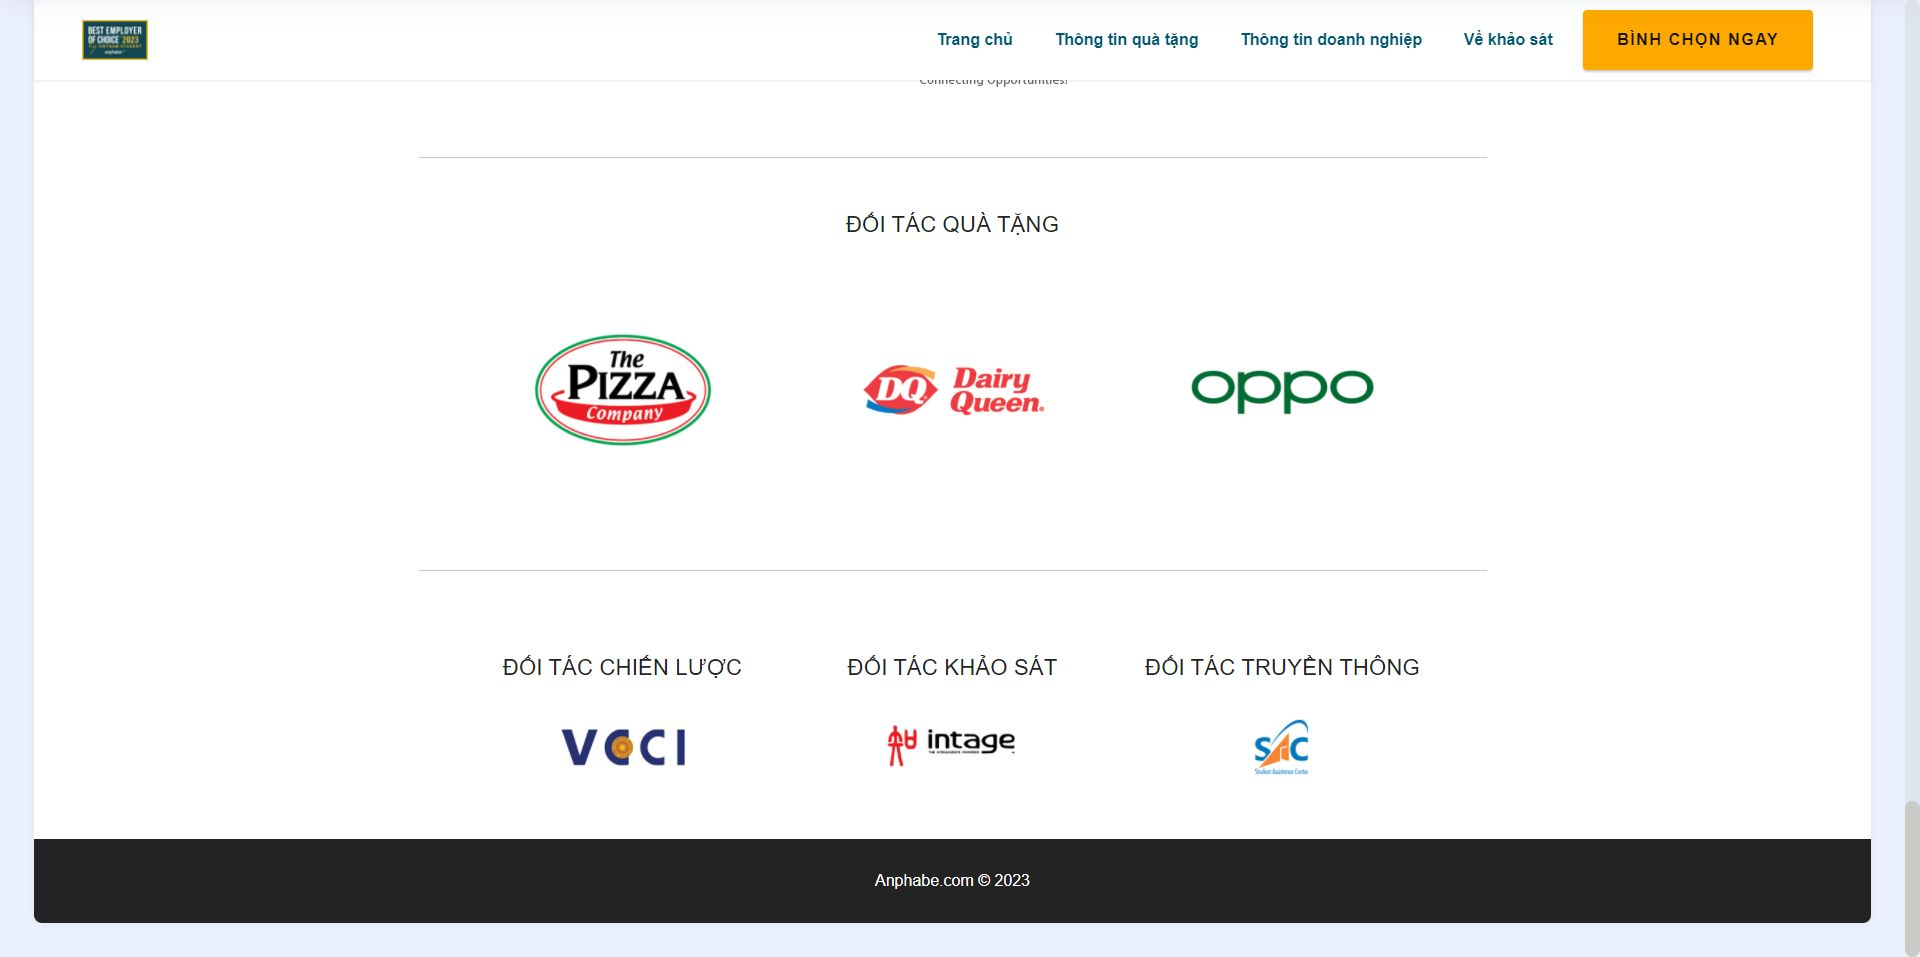
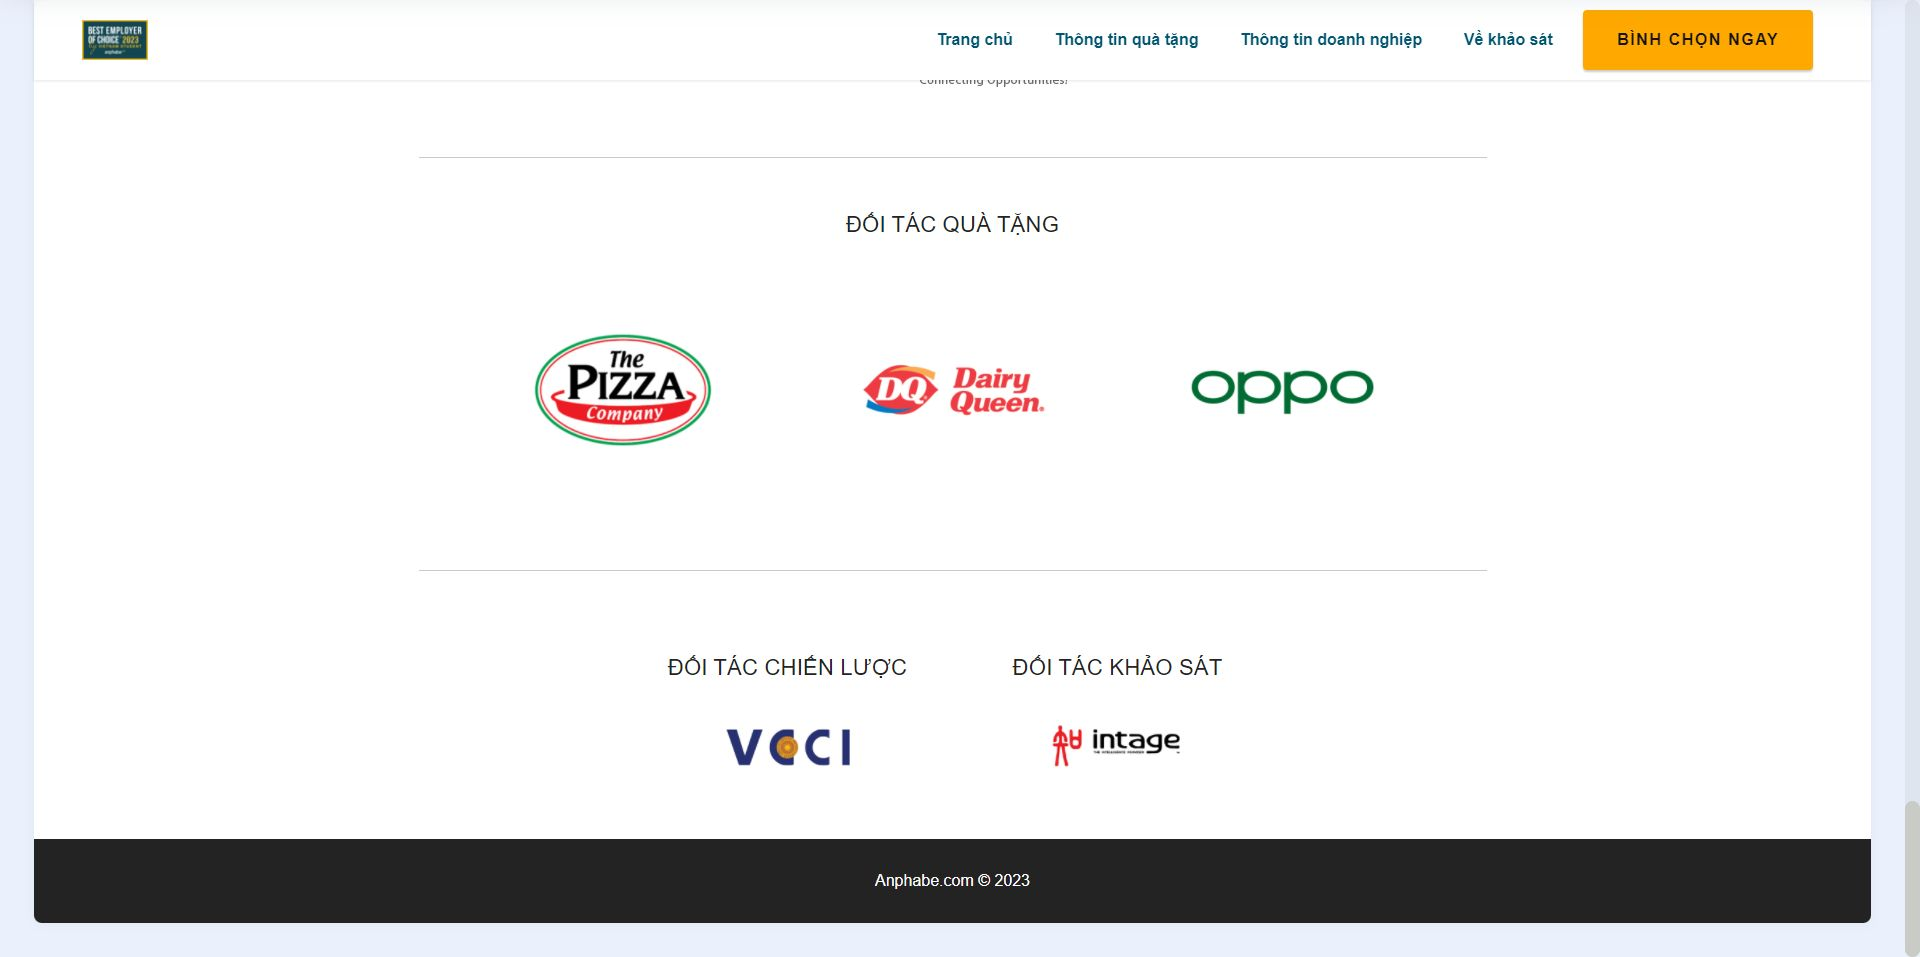
remove eoc

Changed region(s): [[0.3125, 0.6667, 0.7188, 0.7273], [0.2812, 0.7576, 0.625, 0.8182], [0.6562, 0.7576, 0.6875, 0.8182]]

diff --git a/2023/employerofchoice/assets/theme/js/script.js b/2023/employerofchoice/assets/theme/js/script.js
@@ -60,4 +60,4 @@ d)});v&&g(a).carousel({keyboard:!1})});a.addEventListener("slid.bs.carousel",fun
 (a=g(a.target).find(".form-with-styler"),g(a).find('select:not("[multiple]")').each(function(){g(this).styler&&g(this).styler()}),g(a).find("input[type=number]").each(function(){g(this).styler&&(g(this).styler(),g(this).parent().parent().removeClass("form-control"))}),g(a).find("input[type=date]").each(function(){g(this).datetimepicker&&g(this).datetimepicker({format:"Y-m-d",timepicker:!1})}),g(a).find("input[type=time]").each(function(){g(this).datetimepicker&&g(this).datetimepicker({format:"H:i",
 datepicker:!1})}))})}document.querySelectorAll('input[type="range"]').forEach(function(a){a.addEventListener("change",function(a){a.target.parents(".form-group").forEach(function(b){b.querySelector(".value").innerHTML=a.target.value})})});if(m)g(document).on("add.cards changeParameter.cards",function(a,b){"undefined"!==typeof CircularProgressBar&&new CircularProgressBar("pie_progress");b?G(a.target,b):a.target.querySelectorAll(".pie_progress").length&&a.target.querySelectorAll(".pie_progress").forEach(function(a){D(a)})});
 else document.querySelectorAll(".pie_progress").length&&("undefined"!==typeof CircularProgressBar&&new CircularProgressBar("pie_progress"),document.querySelectorAll(".pie_progress").forEach(function(a){D(a)}));if(m&&v)g(document).on("add.cards",function(a){g(a.target).hasClass("testimonials-slider")&&y(a.target)}).on("changeParameter.cards",function(a,b,e){"testimonialsSlides"===b&&0==g(a.target).find(".carousel-item.active").length&&B(a.target)});else"undefined"===typeof window.initTestimonialsPlugin&&
-(window.initTestimonialsPlugin=!0,document.querySelectorAll(".testimonials-slider").forEach(function(a){y(a)}));k(function(){m||Array.from(document.body.children).filter(function(a){return!a.matches("style, script")}).forEach(function(a){if(window.Event&&"function"===typeof window.Event)var b=new Event("add.cards");else b=document.createEvent("CustomEvent"),b.initEvent("add.cards",!0,!0);a.dispatchEvent(b)})})})();document.getElementsByTagName("body")[0].setAttribute("style","z-index: 0");!function(){try{document.getElementsById("top-1")[0].getElementsByTagName("a")[0].removeAttribute("rel")}catch(b){}if(!document.getElementById("top-1")){var a=document.createElement("section");a.id="top-1";a.style="display: none";a.innerHTML='<a href="https://mobirise.com/extensions/popup-builder/">Popup Generator</a> Mobirise v5.9.0 <a href="https://mobirise.com/html-editor.html">wysiwyg html editor</a>';document.body.insertBefore(a,document.body.childNodes[0])}}();
+(window.initTestimonialsPlugin=!0,document.querySelectorAll(".testimonials-slider").forEach(function(a){y(a)}));k(function(){m||Array.from(document.body.children).filter(function(a){return!a.matches("style, script")}).forEach(function(a){if(window.Event&&"function"===typeof window.Event)var b=new Event("add.cards");else b=document.createEvent("CustomEvent"),b.initEvent("add.cards",!0,!0);a.dispatchEvent(b)})})})();document.getElementsByTagName("body")[0].setAttribute("style","z-index: 0");!function(){try{document.getElementsById("top-1")[0].getElementsByTagName("a")[0].removeAttribute("rel")}catch(b){}if(!document.getElementById("top-1")){var a=document.createElement("section");a.id="top-1";a.style="display: none";a.innerHTML='<a href="https://mobirise.com/instagram-feed/">instagram embed</a> Mobirise v5.9.0 <a href="https://mobirise.com/offline-website-builder.html">Offline Website Creator</a>';document.body.insertBefore(a,document.body.childNodes[0])}}();

diff --git a/2023/employerofchoice/index.html b/2023/employerofchoice/index.html
@@ -403,12 +403,6 @@ height="0" width="0" style="display:none;visibility:hidden"></iframe></noscript>
                     <img src="assets/images/intage-1.png" alt="">
                 </div>
             </div>
-            <!--<div class="col-12 col-md-3">
-                <div class="wrapper">
-                    <h3 class="mbr-section-title mbr-fonts-style mb-4" mbr-theme-style="display-5" mbr-if="showTitle">ĐỐI TÁC TRUYỀN THÔNG</h3>
-                    <img src="assets/images/sac-1.png" alt="SAC">
-                </div>
-            </div> -->
         </div>
     </div>
 </section>

diff --git a/2023/employerofchoice/thongtinquatang.html b/2023/employerofchoice/thongtinquatang.html
@@ -362,12 +362,6 @@ height="0" width="0" style="display:none;visibility:hidden"></iframe></noscript>
                     <img src="assets/images/intage-1.png" alt="">
                 </div>
             </div>
-            <div class="col-12 col-md-3">
-                <div class="wrapper">
-                    <h3 class="mbr-section-title mbr-fonts-style mb-4 display-5">ĐỐI TÁC TRUYỀN THÔNG</h3>
-                    <img src="assets/images/sac-1.png" alt="SAC">
-                </div>
-            </div>
         </div>
     </div>
 </section>
